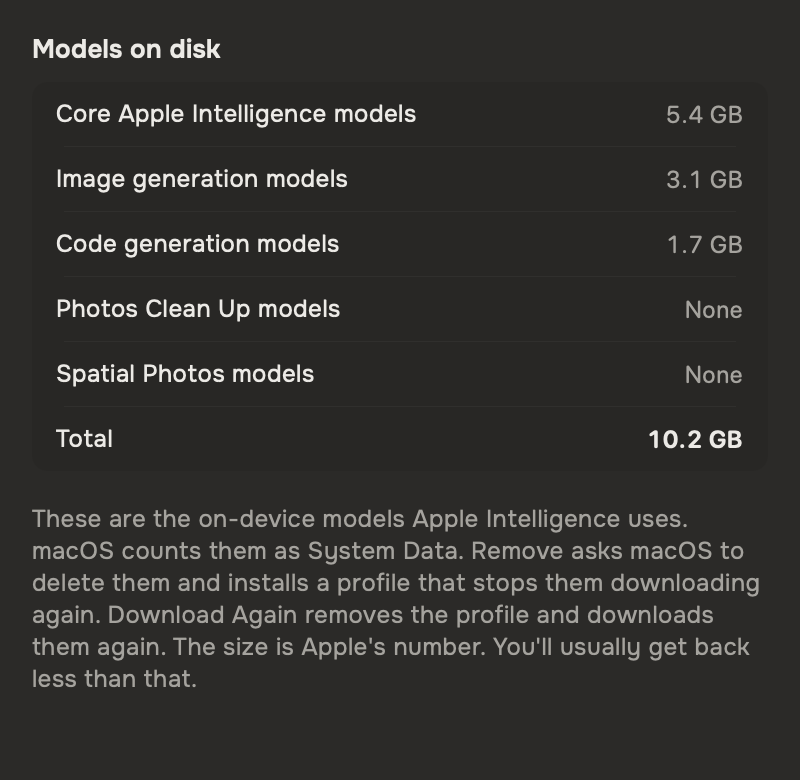
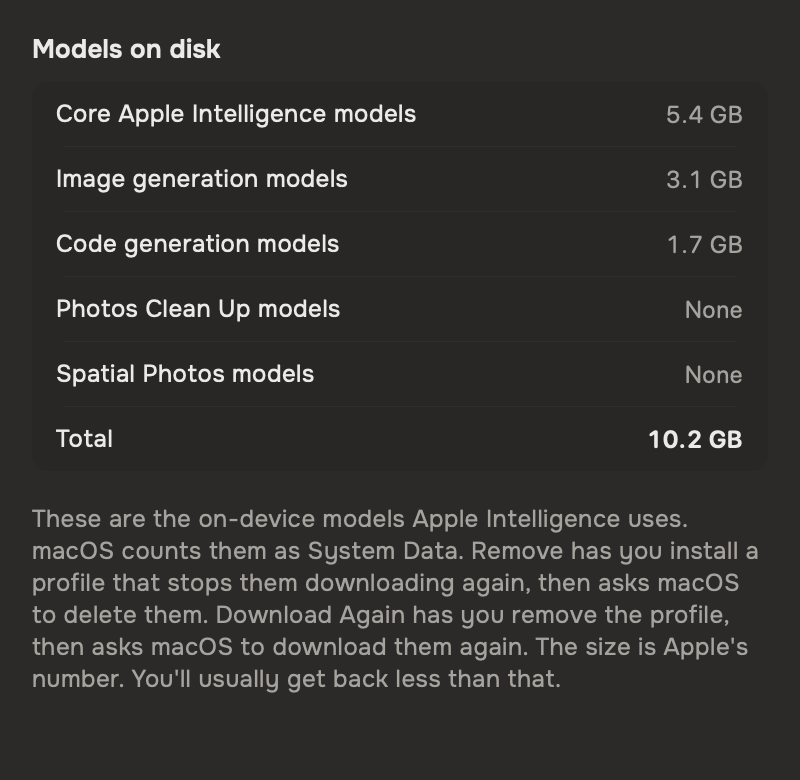
fix: say the user installs and removes the profile in the popover (#306)
The popover said Remove installs the profile and Download Again removes
it. The user does both in System Settings. It also said Download Again
downloads the models, but it only asks macOS, and macOS can refuse.

SECURITY.md said removing the profile by hand brings the models back.
Only Download Again asks macOS for them, so it now says that.

Changed region(s): [[0.0312, 0.6769, 0.9688, 0.8923]]

diff --git a/purge/Views/AppleIntelligenceModelsRow.swift b/purge/Views/AppleIntelligenceModelsRow.swift
@@ -21,7 +21,7 @@ struct OverviewAppleIntelligenceRow: View {
     /// Not a bar segment, so the bar never highlights it; it only fades with the rest.
     static let id = "appleIntelligenceModels"
 
-    private static let info = String(localized: "These are the on-device models Apple Intelligence uses. macOS counts them as System Data. Remove asks macOS to delete them and installs a profile that stops them downloading again. Download Again removes the profile and downloads them again. The size is Apple's number. You'll usually get back less than that.")
+    private static let info = String(localized: "These are the on-device models Apple Intelligence uses. macOS counts them as System Data. Remove has you install a profile that stops them downloading again, then asks macOS to delete them. Download Again has you remove the profile, then asks macOS to download them again. The size is Apple's number. You'll usually get back less than that.")
 
     var body: some View {
         HStack(spacing: AppStyle.Spacing.small) {

diff --git a/SECURITY.md b/SECURITY.md
@@ -124,7 +124,8 @@ and the one change it makes that outlasts the app:
 - **One configuration profile**, which you install yourself in System
   Settings. It only points the model downloads at a dead local address so
   macOS does not fetch them again. It stays in Device Management until you
-  choose Download Again or remove it there; either brings the models back.
+  choose Download Again or remove it there. Download Again also asks macOS
+  for the models back.
 - **Nothing automatic.** Neither scheduled cleaning nor Clean Safe Items ever
   touches the models.
 
